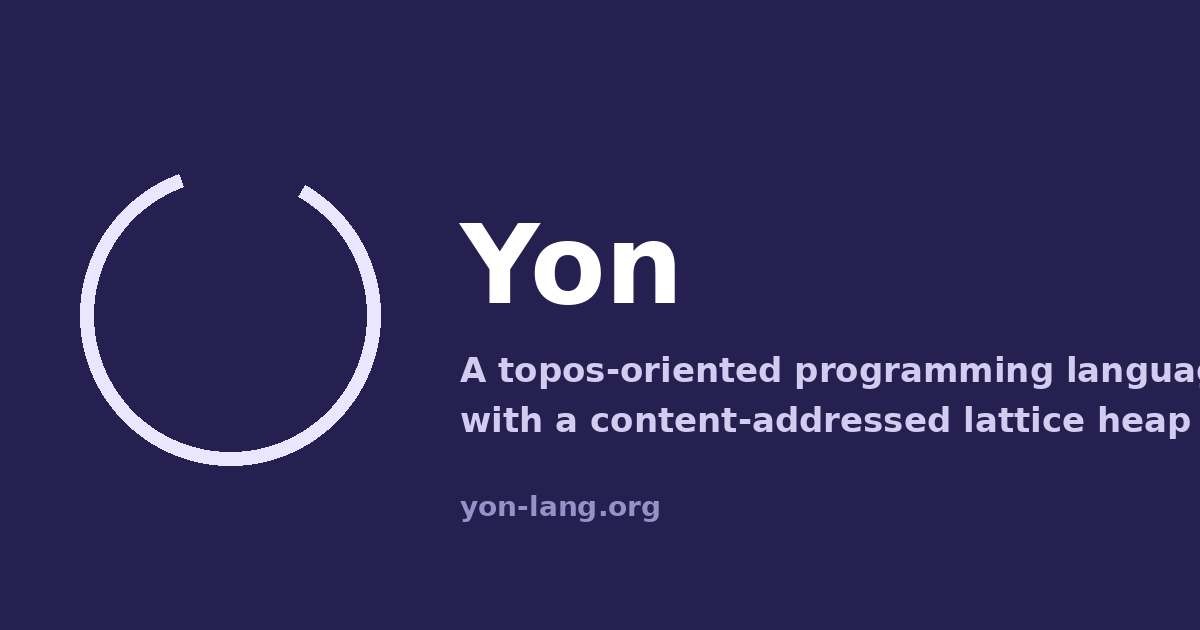
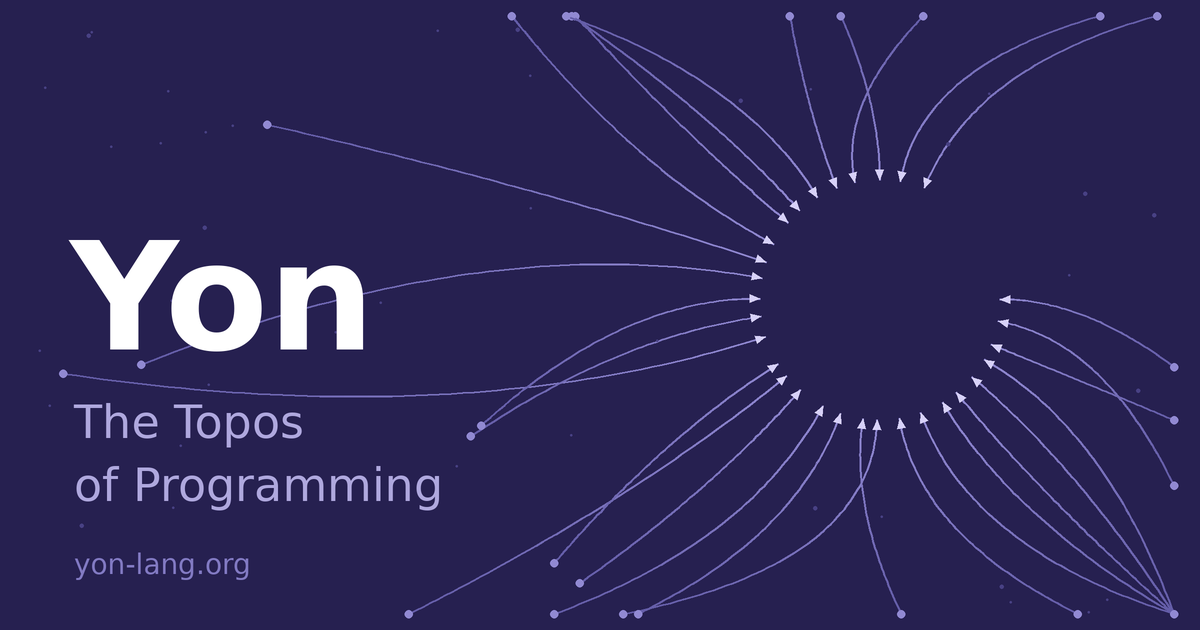
Motto: The Topos of Programming + new social card

diff --git a/website/docusaurus.config.js b/website/docusaurus.config.js
@@ -4,7 +4,7 @@
 /** @type {import('@docusaurus/types').Config} */
 const config = {
   title: 'Yon',
-  tagline: 'A topos-oriented programming language with a content-addressed lattice heap',
+  tagline: 'The Topos of Programming',
   url: 'https://yon-lang.org',
   baseUrl: '/',
   trailingSlash: false,
